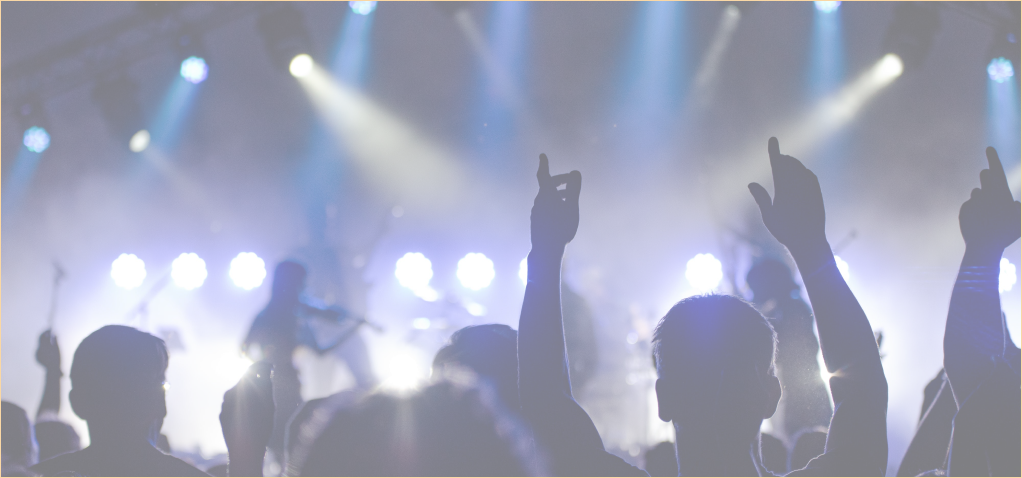
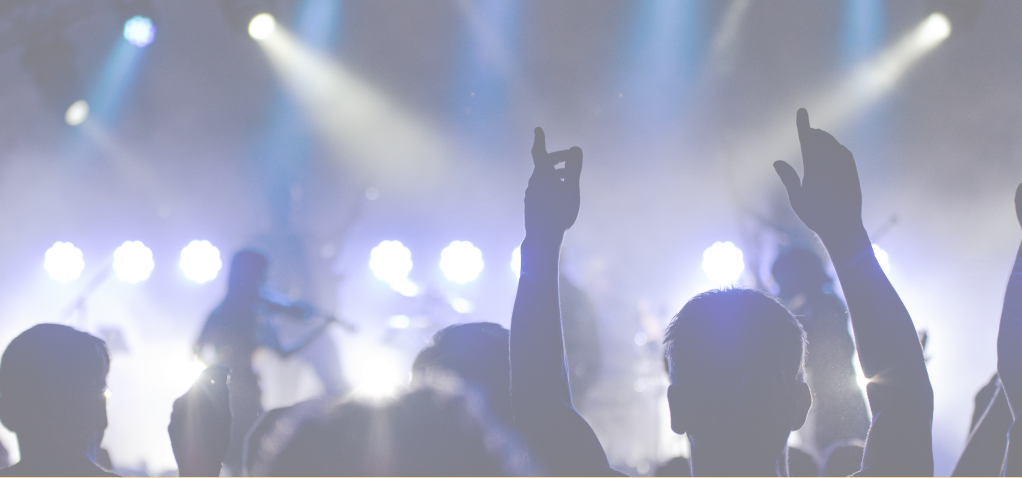
done

diff --git a/css/home.css b/css/home.css
@@ -1,29 +1,22 @@
 body {
-  
   background-color: #F9D7A5;
 }
 
-.top-section{
-  background: url('/images/welcome.png') ;
+.top-section {
+  background: url('/images/welcome.png');
   background-size: cover;
-  padding-top: 0px;
-  
-
+  background-position: top; /* Set background position to top */
+  padding-top: 0; /* Remove padding-top */
+  height: calc(100vh - 20px); 
 }
-
-
-
-
-
 
 .nav-link:hover {
-    color: #F9D7A5; /* Set link hover color */
-  }
-.nav-link btn btn-primary{
-    border-radius: 20px;
+  color: #F9D7A5; /* Set link hover color */
 }
 
-
+.nav-link.btn.btn-primary {
+  border-radius: 20px;
+}
 
 /* Your existing styles here */
 
@@ -39,19 +32,12 @@ body {
     color: black; /* Set text color for dropdown items */
   }
 
-  .navbar-nav a{
+  .navbar-nav a {
     display: block;
   }
 }
 
-
-
-
-
-
-
-.welcome{
-  
+.welcome {
   align-items: center;
   margin-left: 20px;
   font-weight: bold;
@@ -67,49 +53,43 @@ body {
     margin-bottom: 15px; /* Adjust as needed */
   }
 }
+
 .top {
   margin-top: 80px;
-  padding-top: 150px; 
-  
+  padding-top: 150px;
 }
 
 .top h4 {
-  
-  margin-bottom: 20px; 
-  color:#FF6525;
+  margin-bottom: 20px;
+  color: #FF6525;
 }
 
 .top h6 {
-  
-  margin-bottom: 20px; 
+  margin-bottom: 20px;
 }
 
 /* Media Query for Smaller Screens */
 @media (max-width: 768px) {
   .top h4 {
     font-size: 2rem;
-    margin-bottom: 15px; 
+    margin-bottom: 15px;
   }
 
   .top h6 {
     font-size: 1.25rem;
-    margin-bottom: 15px; 
+    margin-bottom: 15px;
   }
 }
-
-
-
 
 /* Rectangle Styles */
 .rectangle {
   border: 1px solid #F9D7A5;
-  padding: 0px;
+  padding: 0;
   text-align: center;
   border-radius: 20px;
   width: 100%; /* Use relative width */
   max-width: 300px; /* Set a maximum width to prevent stretching on larger screens */
-  height: auto; 
-
+  height: auto;
 }
 
 .rectangle img {
@@ -119,13 +99,11 @@ body {
   margin: 0;
   display: block;
   border-radius: 20px 20px 0px 0px;
-
 }
 
 .rectangle p {
   margin-top: 20px;
   font-size: small;
- 
 }
 
 /* Media Query for Smaller Screens */
@@ -138,35 +116,30 @@ body {
 
 .test {
   margin-top: 30px;
-  padding-top: 10px; 
-  
+  padding-top: 10px;
 }
 
 .test h4 {
-  
-  margin-bottom: 20px; 
-  color:#FF6525;
+  margin-bottom: 20px;
+  color: #FF6525;
 }
 
 .test h6 {
-  
-  margin-bottom: 20px; 
+  margin-bottom: 20px;
 }
 
 /* Media Query for Smaller Screens */
 @media (max-width: 768px) {
   .test h4 {
     font-size: 2rem;
-    margin-bottom: 15px; 
+    margin-bottom: 15px;
   }
 
   .test h6 {
     font-size: 1.25rem;
-    margin-bottom: 15px; 
+    margin-bottom: 15px;
   }
 }
-
-
 
 /* Profile Info Styles */
 .profile-info {
@@ -181,19 +154,19 @@ body {
 
 .profile img {
   width: 88px;
-height: 94px;
+  height: 94px;
 }
 
 .description p {
   font-size: 1rem;
   margin-bottom: 10px;
   font-family: 'Inter';
-font-style: normal;
-font-weight: 500;
-font-size: 16px;
-line-height: 22px;
-margin-top: 50px;
-color: #000000;
+  font-style: normal;
+  font-weight: 500;
+  font-size: 16px;
+  line-height: 22px;
+  margin-top: 50px;
+  color: #000000;
 }
 
 .description h3 {
@@ -216,7 +189,6 @@ color: #000000;
   }
 }
 
-
 /* Logo Container Styles */
 .logo-container {
   display: flex;
@@ -231,9 +203,8 @@ color: #000000;
   max-width: 100%;
   height: auto;
   margin-bottom: 0px;
-  top:0px;
+  top: 0px;
 }
-
 
 /* Line Container Styles */
 .line-container {
@@ -246,12 +217,11 @@ color: #000000;
 .horizontal-line {
   width: 80%; /* Adjust the width of the line */
   border: none;
-  border-top: 1px solid #030303; 
+  border-top: 1px solid #030303;
   margin-top: 0;
   margin-bottom: 30px;
 }
 
-
-footer{
+footer {
   padding-bottom: 80px;
 }

diff --git a/profile.html b/profile.html
@@ -20,10 +20,10 @@
                     <img src="/images/log.png" alt="Logo" width="100">
                 </div>
                 <ul class="menu text-center">
-                    <li style="margin-top: 50px;"><a href="#"><img src="/svg/home.svg" style="padding-right: 50px;"> Home</a></li>
-                    <li style="margin-top: 50px;"><a href="#"><img src="/svg/booking.svg" style="padding-right: 50px;">Booking</a></li>
-                    <li style="margin-top: 50px;"><a href="#"><img src="/svg/feedback.svg" style="padding-right: 50px;"> Feedback</a></li>
-                    <li style="margin-top: 50px;"><a href="#"><img src="/svg/logout.svg" style="padding-right: 50px;"> Logout</a></li>
+                    <li style="margin-top: 50px;"><a href="home.html"><img src="/svg/home.svg" style="padding-right: 50px;"> Home</a></li>
+                    <li style="margin-top: 50px;"><a href="booking.html"><img src="/svg/booking.svg" style="padding-right: 50px;">Booking</a></li>
+                    <li style="margin-top: 50px;"><a href="feedback.html"><img src="/svg/feedback.svg" style="padding-right: 50px;"> Feedback</a></li>
+                    <li style="margin-top: 50px;"><a href="login.html"><img src="/svg/logout.svg" style="padding-right: 50px;"> Logout</a></li>
                 </ul>
             </div>
             <!-- Main Content -->

diff --git a/home.html b/home.html
@@ -40,8 +40,8 @@
       </ul>
     </div>
     <div class="navbar-nav">
-      <a class="nav-link" href="#" style="background-color: #FF6525; color: #fff; border-radius: 8px; font-size: small; margin-right: 10px;">Login</a>
-      <a class="nav-link btn btn-primary" href="#" style="background-color: #6F59F4; color: #fff; border-radius: 8px;  margin-right: 20px; font-size:small;">Sign Up</a>
+      <a class="nav-link" href="login.html" style="background-color: #FF6525; color: #fff; border-radius: 8px; font-size: small; margin-right: 10px;">Login</a>
+      <a class="nav-link btn btn-primary" href="signup.html" style="background-color: #6F59F4; color: #fff; border-radius: 8px;  margin-right: 20px; font-size:small;">Sign Up</a>
     </div>
   </nav>
   

diff --git a/booking.html b/booking.html
@@ -11,8 +11,8 @@
 <div class="container-fluid booking-container">
     <img src="svg/Layer1.svg" class="layer1-svg" alt="Layer1 SVG">
     <img src="svg/Layer2.svg" class="layer2-svg" alt="Layer2 SVG">
-    <img src="svg/Layer4.svg" class="layer3-svg" alt="Layer3 SVG">
-    <img src="svg/Layer3.svg" class="layer4-svg" alt="Layer4 SVG">
+   <a href="payment.html" ><img src="svg/Layer4.svg" class="layer3-svg" alt="Layer3 SVG"></a>
+    <a href="profile.html"><img src="svg/Layer3.svg" class="layer4-svg" alt="Layer4 SVG"></a>
     <!-- Your content goes here -->
 
     <div class="header-container text-center" style="margin-top: 200px;">

diff --git a/payment.html b/payment.html
@@ -11,8 +11,8 @@
 <div class="container-fluid booking-container">
     <img src="svg/Layer1.svg" class="layer1-svg" alt="Layer1 SVG">
     <img src="svg/Layer2.svg" class="layer2-svg" alt="Layer2 SVG">
-    <img src="svg/Layer4.svg" class="layer3-svg" alt="Layer3 SVG">
-    <img src="svg/Layer3.svg" class="layer4-svg" alt="Layer4 SVG">
+    <a href="confirmer.html" ><img src="svg/Layer4.svg" class="layer3-svg" alt="Layer3 SVG"></a>
+   <a href="booking.html"> <img src="svg/Layer3.svg" class="layer4-svg" alt="Layer4 SVG"></a>
     <!-- Your content goes here -->
     <div class="payment-content">
         <div class="radio-options">

diff --git a/confirmer.html b/confirmer.html
@@ -11,7 +11,7 @@
 <div class="container-fluid booking-container">
     
    
-    <img src="svg/Layer3.svg" class="layer4-svg" alt="Layer4 SVG">
+   <a href="booking.html"> <img src="svg/Layer3.svg" class="layer4-svg" alt="Layer4 SVG"></a>
     <!-- Your content goes here -->
     <div class="centered-div">
         <p>Hoolay !!<br /> Your ticket up request has been received.<br /> Check your email for confirmation</p>
